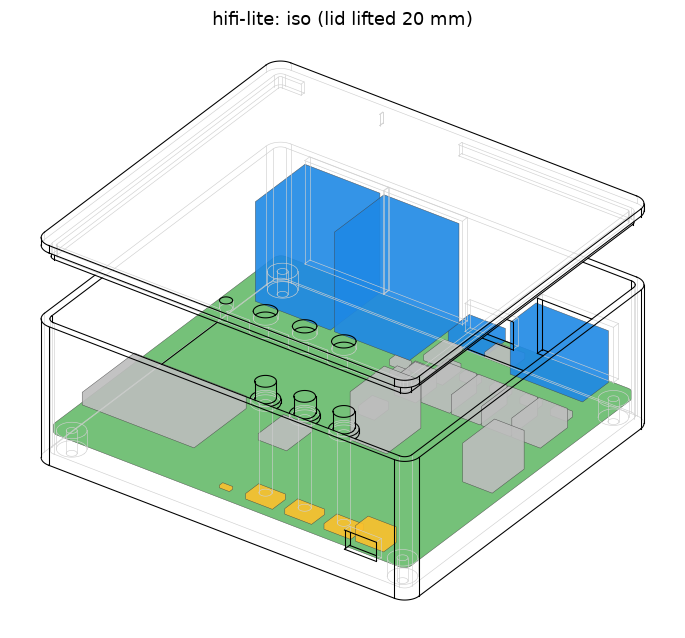
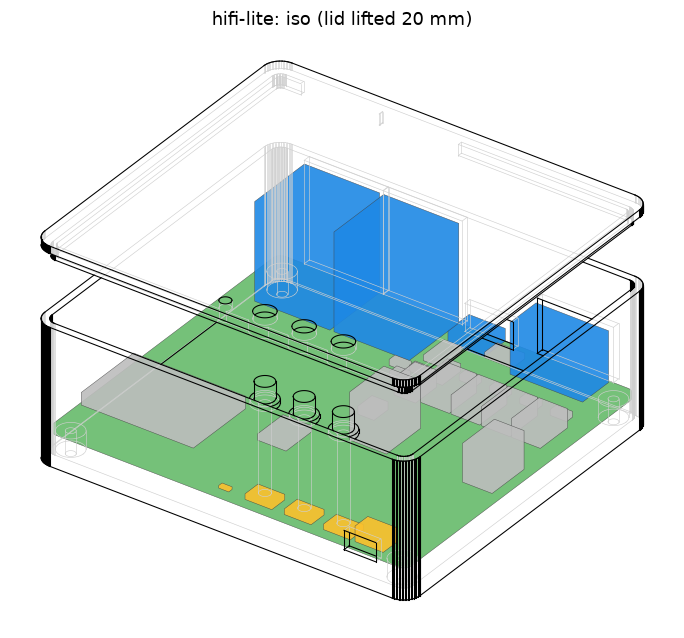
Tray: the cavity, walls, lid and lip follow the board's outline (offset by gap), not its bounding box; shape="box" keeps the old rectangle (#3)

diff --git a/mech/box.py b/mech/box.py
@@ -20,8 +20,8 @@ from __future__ import annotations
 
 from dataclasses import dataclass, field
 
-from build123d import (Align, Box, Cylinder, Part, Pos, RectangleRounded,
-                       Rot, extrude)
+from build123d import (Align, Box, Cylinder, Kind, Part, Polygon, Pos,
+                       RectangleRounded, Rot, extrude, offset)
 
 from .kicad import Board, Port
 
@@ -48,14 +48,18 @@ def cylinder(x, y, z0, z1, d) -> Part:
 class Tray:
     """A two-part box: a base the board screws into, a lid that drops on.
 
-    gap: board edge to inner wall. corner: the cavity's corner radius
-    (default: the most that clears a square board corner). standoff: floor top to board bottom.
+    shape: "outline" (the cavity is the board's outline grown by gap, so a
+    shaped board sits in a shaped box) or "box" (a rounded rectangle round
+    the outline's box). gap: board edge to inner wall. corner: the box
+    cavity's corner radius (default: the most that clears a square board
+    corner; "outline" rounds each corner by gap instead). standoff: floor top to board bottom.
     top_clear: tallest top part to the lid's underside. boss_d, pilot_d: the
     standoff's outer diameter and screw hole (2.5 for an M3 self-tapper in
     PETG, 4.0 for an M3 heat-set insert). port_margin: added round each
     connector's face. lip: the lid's locating lip (height, thickness, fit gap).
     """
     board: Board
+    shape: str = "outline"
     wall: float = 2.0
     floor: float = 2.0
     lid_t: float = 2.0
@@ -76,8 +80,23 @@ class Tray:
             self.corner = round(min(3.0, 3.4 * self.gap), 2)
         if self.ports is None:
             self.ports = list(self.board.ports)
+        if self.shape not in ("outline", "box"):
+            raise ValueError(f"Tray.shape: {self.shape!r}, want 'outline' or 'box'")
 
-    # The cavity and the outside, in the board's frame.
+    def plan(self, d: float, z0: float, z1: float) -> Part:
+        """The cavity's plan grown by d (negative: shrunk), extruded from z0 to z1.
+        d = 0 is the cavity, d = wall the outside."""
+        if self.shape == "box":
+            x0, y0, x1, y1 = self.inner
+            r = self.corner + d if d >= 0 else max(0.5, self.corner + d)
+            return rounded(x0 - d, y0 - d, x1 + d, y1 + d, z0, z1, r)
+        face = Polygon(*[tuple(p) for p in self.board.outline], align=None)
+        g = self.gap + d
+        if abs(g) > 1e-6:
+            face = offset(face, amount=g, kind=Kind.ARC)
+        return Pos(0, 0, z0) * extrude(face, amount=z1 - z0)
+
+    # The cavity's and the outside's boxes, in the board's frame.
     @property
     def inner(self) -> tuple[float, float, float, float]:
         w, h = self.board.size
@@ -105,10 +124,8 @@ class Tray:
         return self.board.top_height() + self.top_clear
 
     def base(self) -> Part:
-        x0, y0, x1, y1 = self.outer
-        ix0, iy0, ix1, iy1 = self.inner
-        shell = rounded(x0, y0, x1, y1, self.z_bottom, self.z_top, self.corner + self.wall)
-        shell -= rounded(ix0, iy0, ix1, iy1, self.z_floor, self.z_top + 1, self.corner)
+        shell = self.plan(self.wall, self.z_bottom, self.z_top)
+        shell -= self.plan(0.0, self.z_floor, self.z_top + 1)
         for h in self.board.holes:
             shell += cylinder(h.x, h.y, self.z_floor - 0.01, 0.0, max(self.boss_d, h.pad))
         for h in self.board.holes:
@@ -116,13 +133,10 @@ class Tray:
         return shell
 
     def lid(self) -> Part:
-        x0, y0, x1, y1 = self.outer
-        ix0, iy0, ix1, iy1 = self.inner
         lh, lt, lg = self.lip
-        plate = rounded(x0, y0, x1, y1, self.z_top, self.z_top + self.lid_t, self.corner + self.wall)
-        ring = rounded(ix0 + lg, iy0 + lg, ix1 - lg, iy1 - lg, self.z_top - lh, self.z_top, max(0.5, self.corner - lg))
-        ring -= rounded(ix0 + lg + lt, iy0 + lg + lt, ix1 - lg - lt, iy1 - lg - lt, self.z_top - lh - 1,
-                        self.z_top + 1, max(0.5, self.corner - lg - lt))
+        plate = self.plan(self.wall, self.z_top, self.z_top + self.lid_t)
+        ring = self.plan(-lg, self.z_top - lh, self.z_top)
+        ring -= self.plan(-lg - lt, self.z_top - lh - 1, self.z_top + 1)
         lid = plate + ring
         # The lip mustn't land on a tall part or a connector near the wall.
         for p in self.board.parts:

diff --git a/tests/test_fit.py b/tests/test_fit.py
@@ -91,3 +91,32 @@ def test_vents_and_window_cut_material(board):
     win = t.window(base, "SW1", "S")
     assert win.volume < base.volume
     assert fit.check(board, {"base": win, "lid": vented})["ok"]
+
+
+def l_shaped(board):
+    """The tiny board with its NE corner (x > 40, y > 20) cut away."""
+    import dataclasses
+    return dataclasses.replace(board, outline=[[0, 0], [50, 0], [50, 20], [40, 20], [40, 30], [0, 30]])
+
+
+def test_cavity_follows_a_shaped_outline(board):
+    shaped = l_shaped(board)
+    t = Tray(shaped)
+    base, lid = t.cut_ports(t.base()), t.lid()
+    r = fit.check(shaped, {"base": base, "lid": lid})
+    assert names_failing(r) == [], fit.summary(r)
+    zs = (t.z_floor + 1, t.z_top - 1)
+    wall = block(41.0, 24, zs[0], 42.4, 27, zs[1])  # just past the notch's W edge (x = 40)
+    corner = block(44, 24, t.z_bottom - 1, 47, 27, t.z_top + t.lid_t + 1)  # well inside the cut-away
+    assert (base & wall).volume > 0.99 * wall.volume  # the wall turns into the notch
+    assert fit._overlap(base, corner) < fit.EPS and fit._overlap(lid, corner) < fit.EPS  # nothing over it
+    boxed = Tray(shaped, shape="box")
+    assert fit._overlap(boxed.base(), wall) < fit.EPS  # the bounding box left it hollow
+
+
+def test_box_shape_still_builds(board):
+    t = Tray(board, shape="box")
+    r = fit.check(board, {"base": t.cut_ports(t.base()), "lid": t.lid()})
+    assert names_failing(r) == [], fit.summary(r)
+    with pytest.raises(ValueError):
+        Tray(board, shape="round")

diff --git a/docs/README.md b/docs/README.md
@@ -75,7 +75,8 @@ def build(board):
 Return the parts **assembled**, in the board's frame; `mech build` turns
 them for printing. `Tray` is one way to build the box: two parts, the board
 screwed to bosses (pilot 2.5 mm for an M3 self-tapper in PETG, 4.0 for a
-heat-set insert), and a lid with a locating lip that steps round tall parts.
+heat-set insert), walls that follow the board's outline, and a lid with a
+locating lip that steps round tall parts.
 For a different shape (a sloped front, a panel-mount, a clamshell), use
 `mech.box.block/rounded/cylinder` or plain build123d, and keep whatever
 `Tray` helpers still fit. `examples/hifi-lite/enclosure.py` is a complete
@@ -122,8 +123,13 @@ Look at them: the checks only catch what they measure.
   least 12.4 x 6.6 mm, so the overmold fits. A connector set back from the
   board edge adds that set-back to the recess. Tell the board's worker to
   move it to the edge rather than thinning the wall.
-- Board outlines are boxed: the cavity follows the outline's bounding box.
-  For a shaped board, cut the cavity from `board.outline` yourself.
+- The cavity follows the board's outline (Edge.Cuts) grown by `gap`, so a
+  shaped board sits in a box of the same shape. Each wall, the lid and its lip
+  are offsets of that plan. Convex corners round by the offset; concave ones
+  stay sharp. `Tray(board, shape="box")` gives the old rounded rectangle round
+  the outline's box, with `corner` as its radius. The board's internal cutouts
+  aren't in the plan. A part overhanging a shaped edge that isn't a port
+  shows up in `parts_clear`.
 - build123d's `Text()` can hang for minutes looking for fonts, so leave
   embossed labels out or give it a font file path.
 - The machine is often loaded. One CAD build at a time, at `nice 19`, takes
